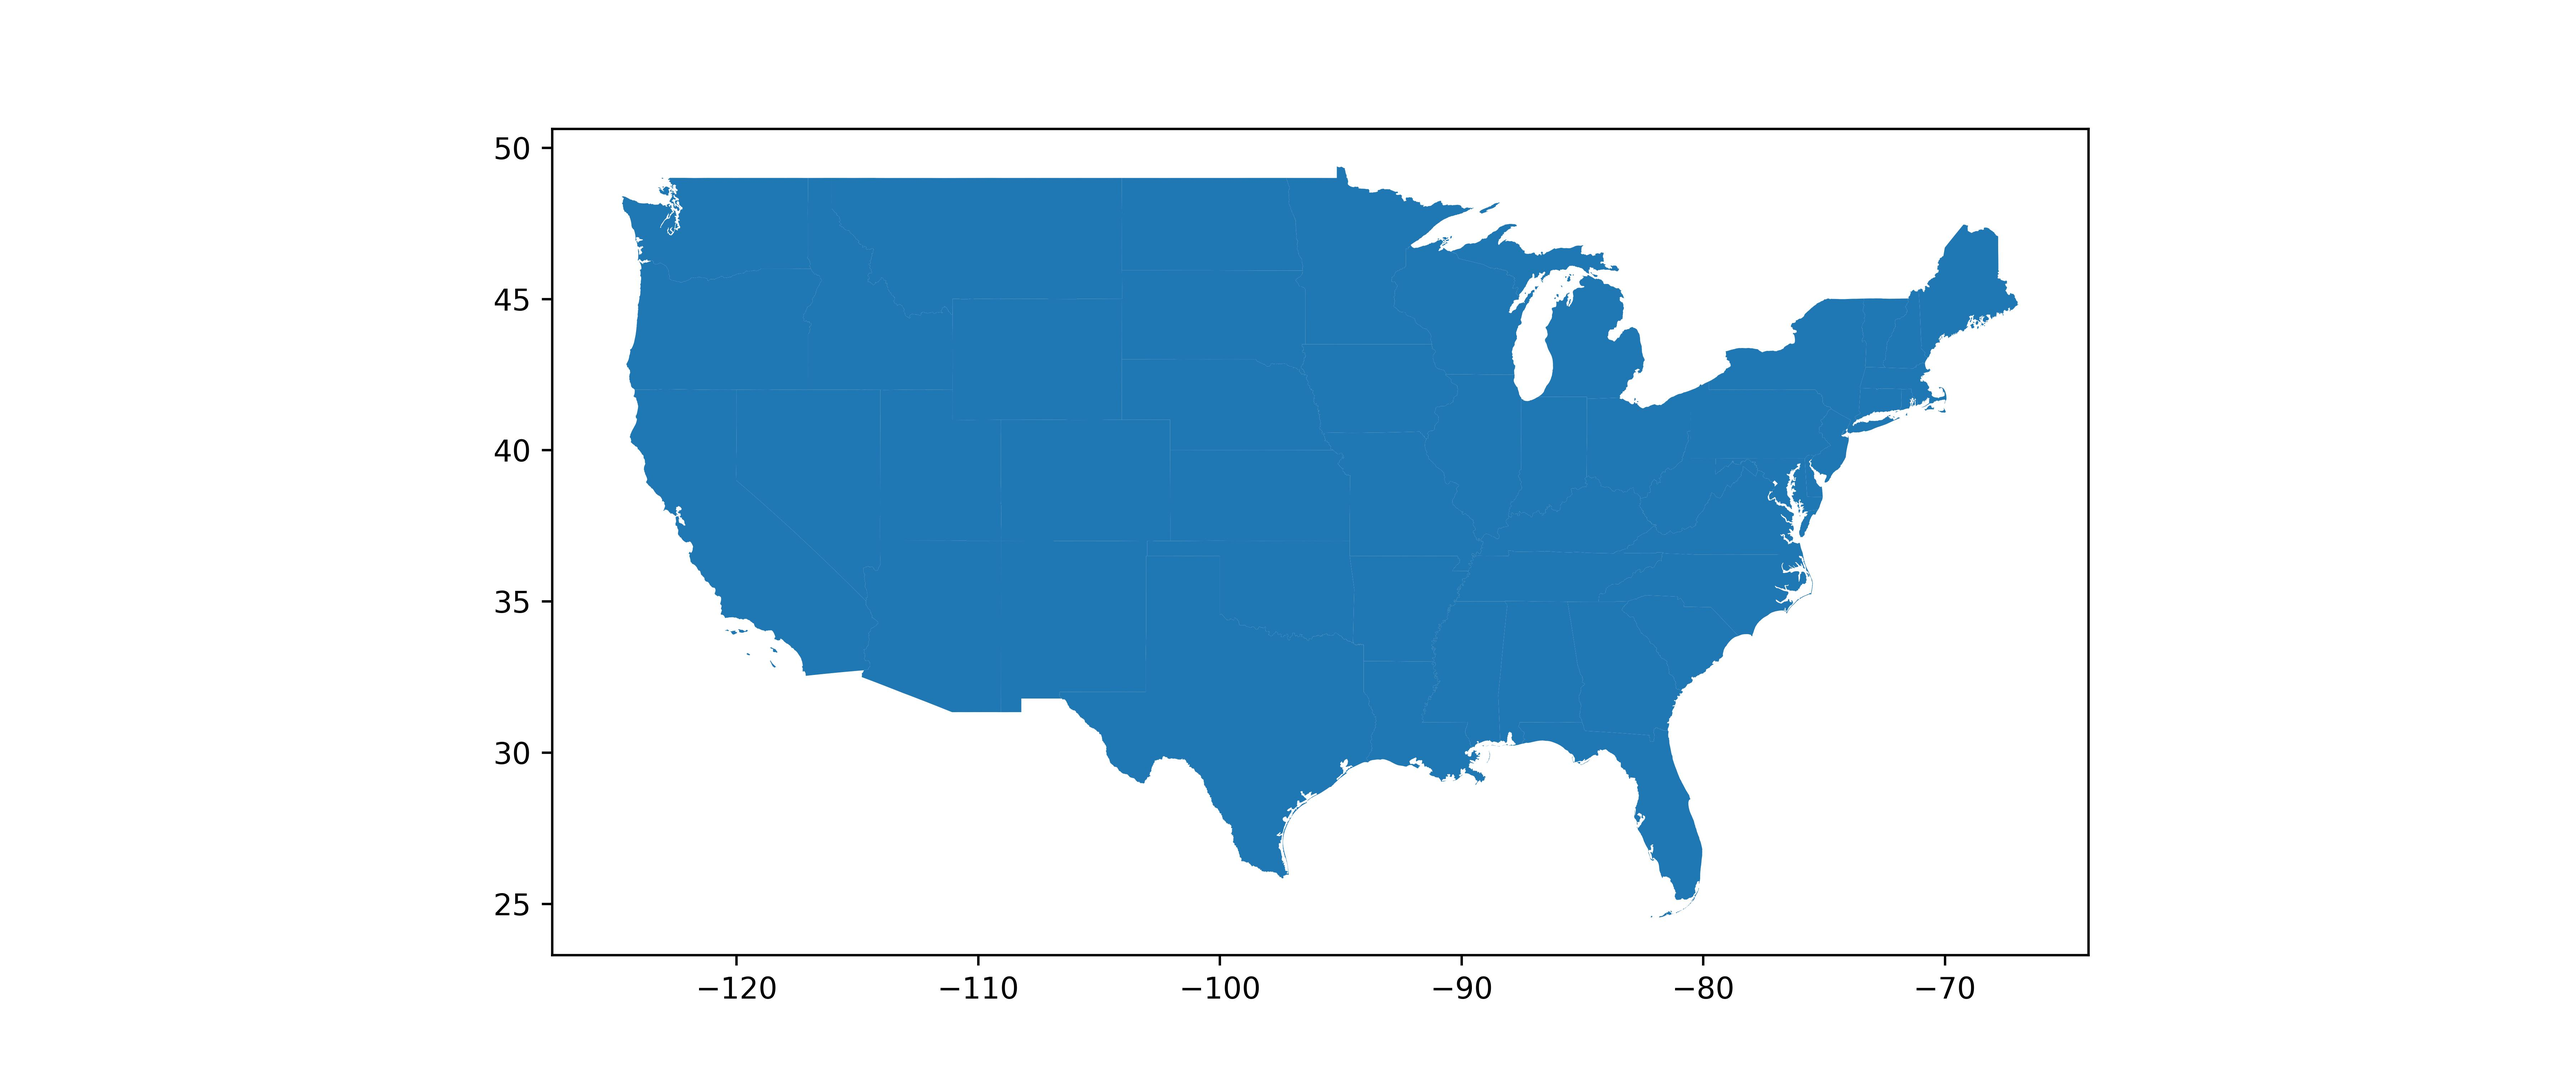
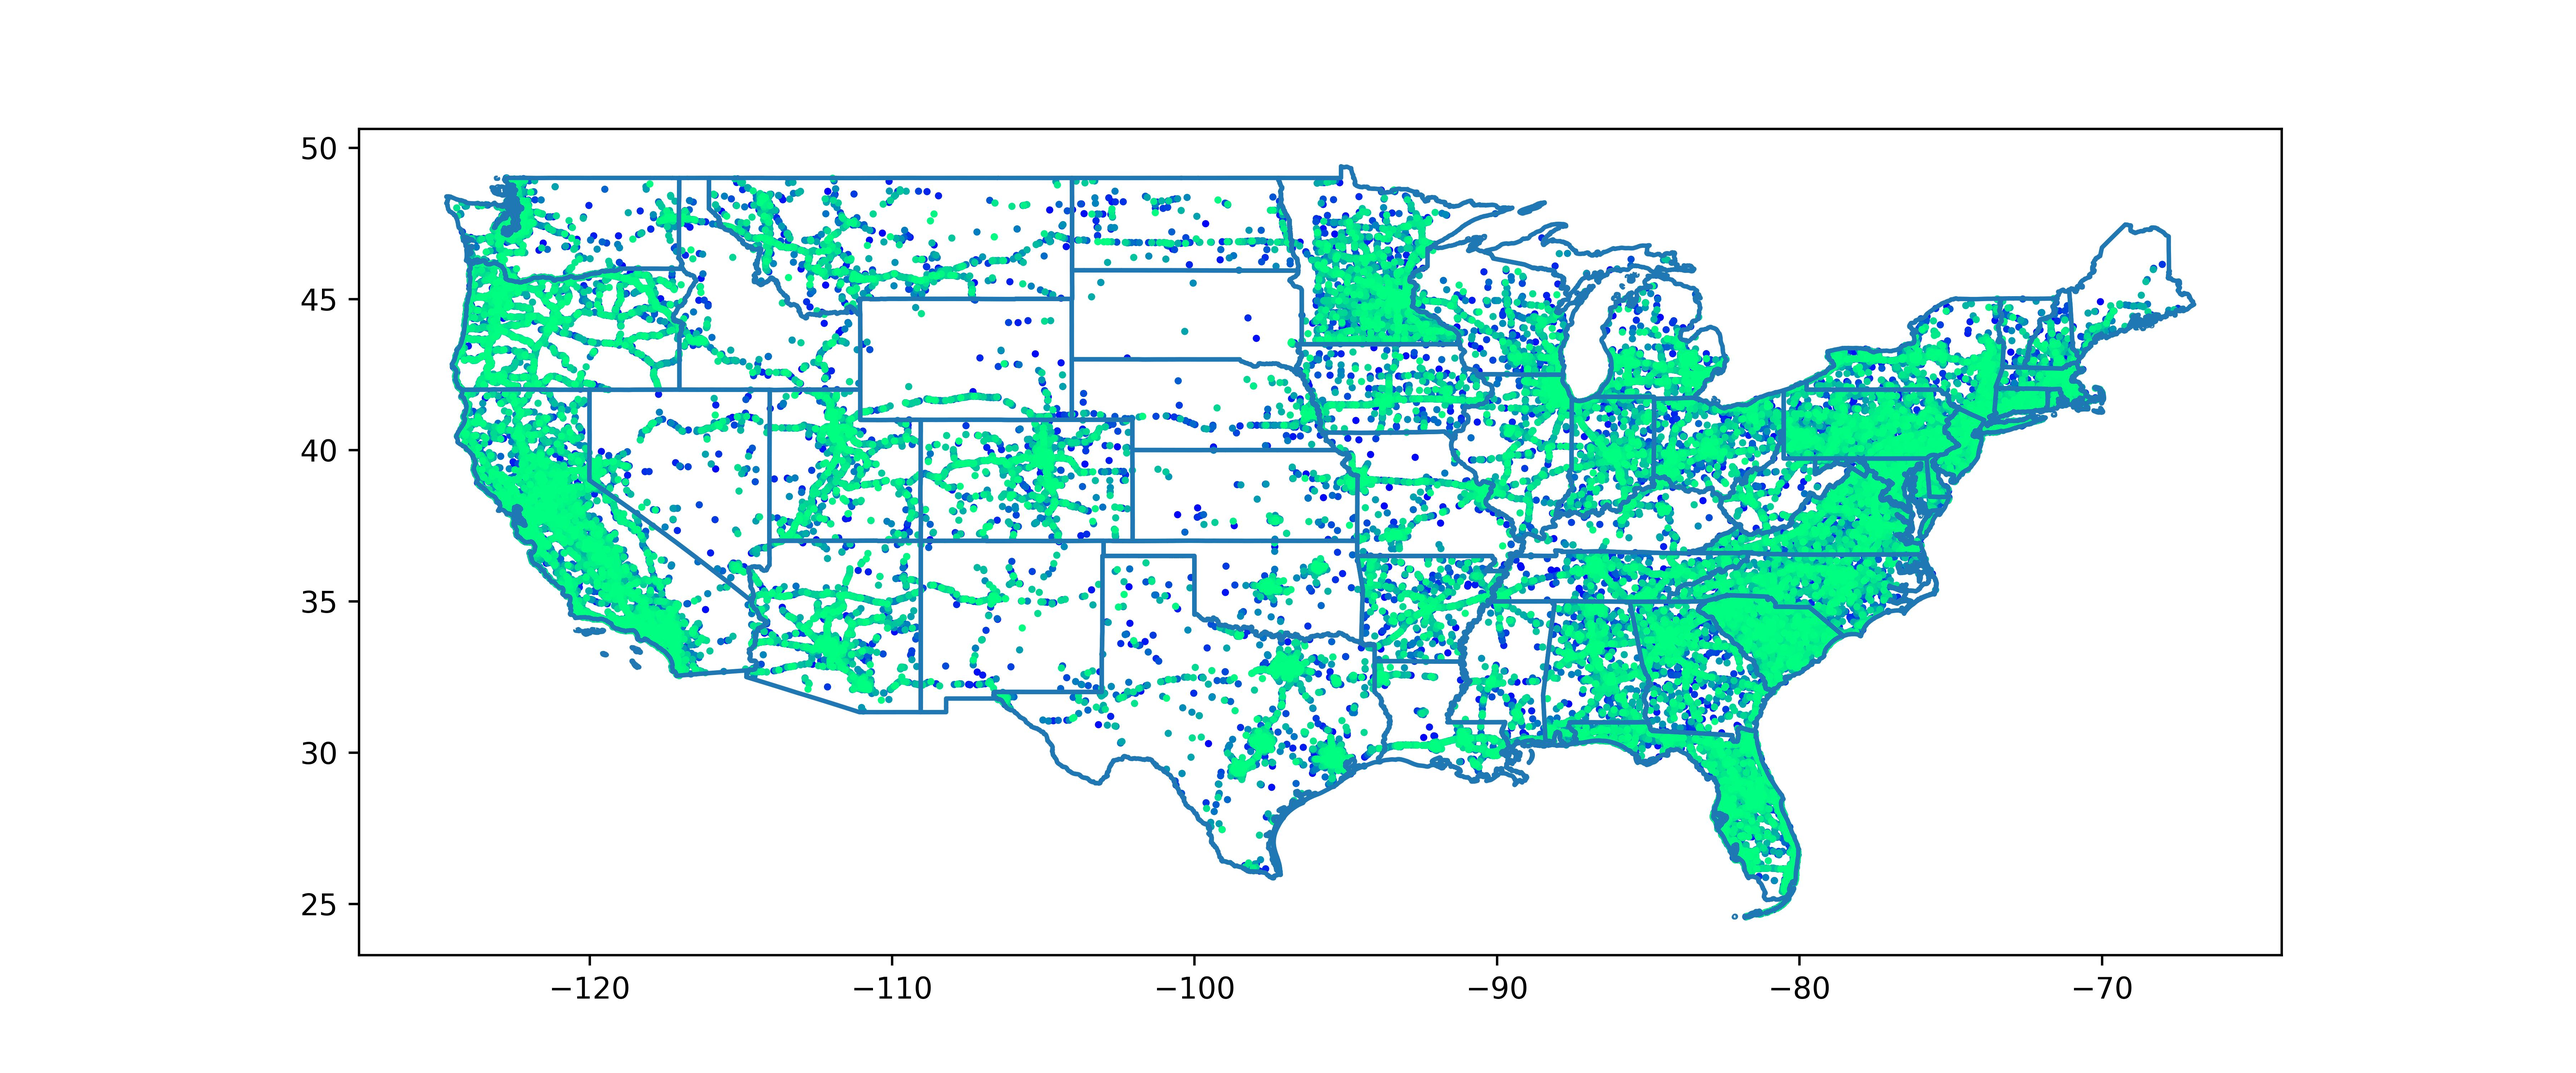
made geospatial plot of us accidents
yippie!

diff --git a/main.py b/main.py
@@ -5,10 +5,8 @@ df = pd.concat(
     map(pd.read_csv, ['data\output_0.csv', 'data\output_1.csv', 'data\output_2.csv', 'data\output_3.csv', 'data\output_4.csv', 'data\output_5.csv', 'data\output_6.csv', 'data\output_7.csv'])
 )
 
-
-
 country = gpd.read_file("data\gz_2010_us_040_00_5m.json")
-
+'''
 df2= pd.read_csv("states.csv")
 
 y = sorted(df["State"].unique())
@@ -20,11 +18,32 @@ print("States we dont have data for: " + str([i for i in x if not i in y]))
 print("___________________")
 print("Both databases have DC, but our dataset claims to have 49 states while lacking Alaska and Hawaii which means it actually has 48, meaning the page was wrong.")
 print("So we decided to delete DC, as its not a state.")
+'''
 
 country = country[(country['NAME'] != 'District of Columbia') & (country['NAME'] != 'Puerto Rico') & (country['NAME'] != 'Alaska') & (country['NAME'] != 'Hawaii')]
 #country.axis("off")
 fig, ax = plt.subplots(1, figsize=(12,5))
 #ax.set_xlim(-180, -65)
 #ax.set_ylim(23, 50)
-country.plot(ax=ax)
+country.boundary.plot(ax=ax)
+
+gdf2 = gpd.GeoDataFrame(
+    df, geometry=gpd.points_from_xy(df.Start_Lng,df.Start_Lat), crs="EPSG:4326"
+)
+gdf2.plot(aspect=1,ax=ax,markersize=2,cmap='winter') #column="POP2010"
+#cmap='cubehelix'
+#cmap='Greens'
+#cmap='winter'
+#OrRd
+#passing missing_kwds one can specify the style and label of features containing None or NaN.
+'''
+missing_kwds={
+        "color": "lightgrey",
+        "edgecolor": "red",
+        "hatch": "///",
+        "label": "Missing values",
+    },
+'''
+
+#highway vs city stuff, where we compare which one is more likely to get in accident
 plt.savefig('america.jpg', dpi=600)
